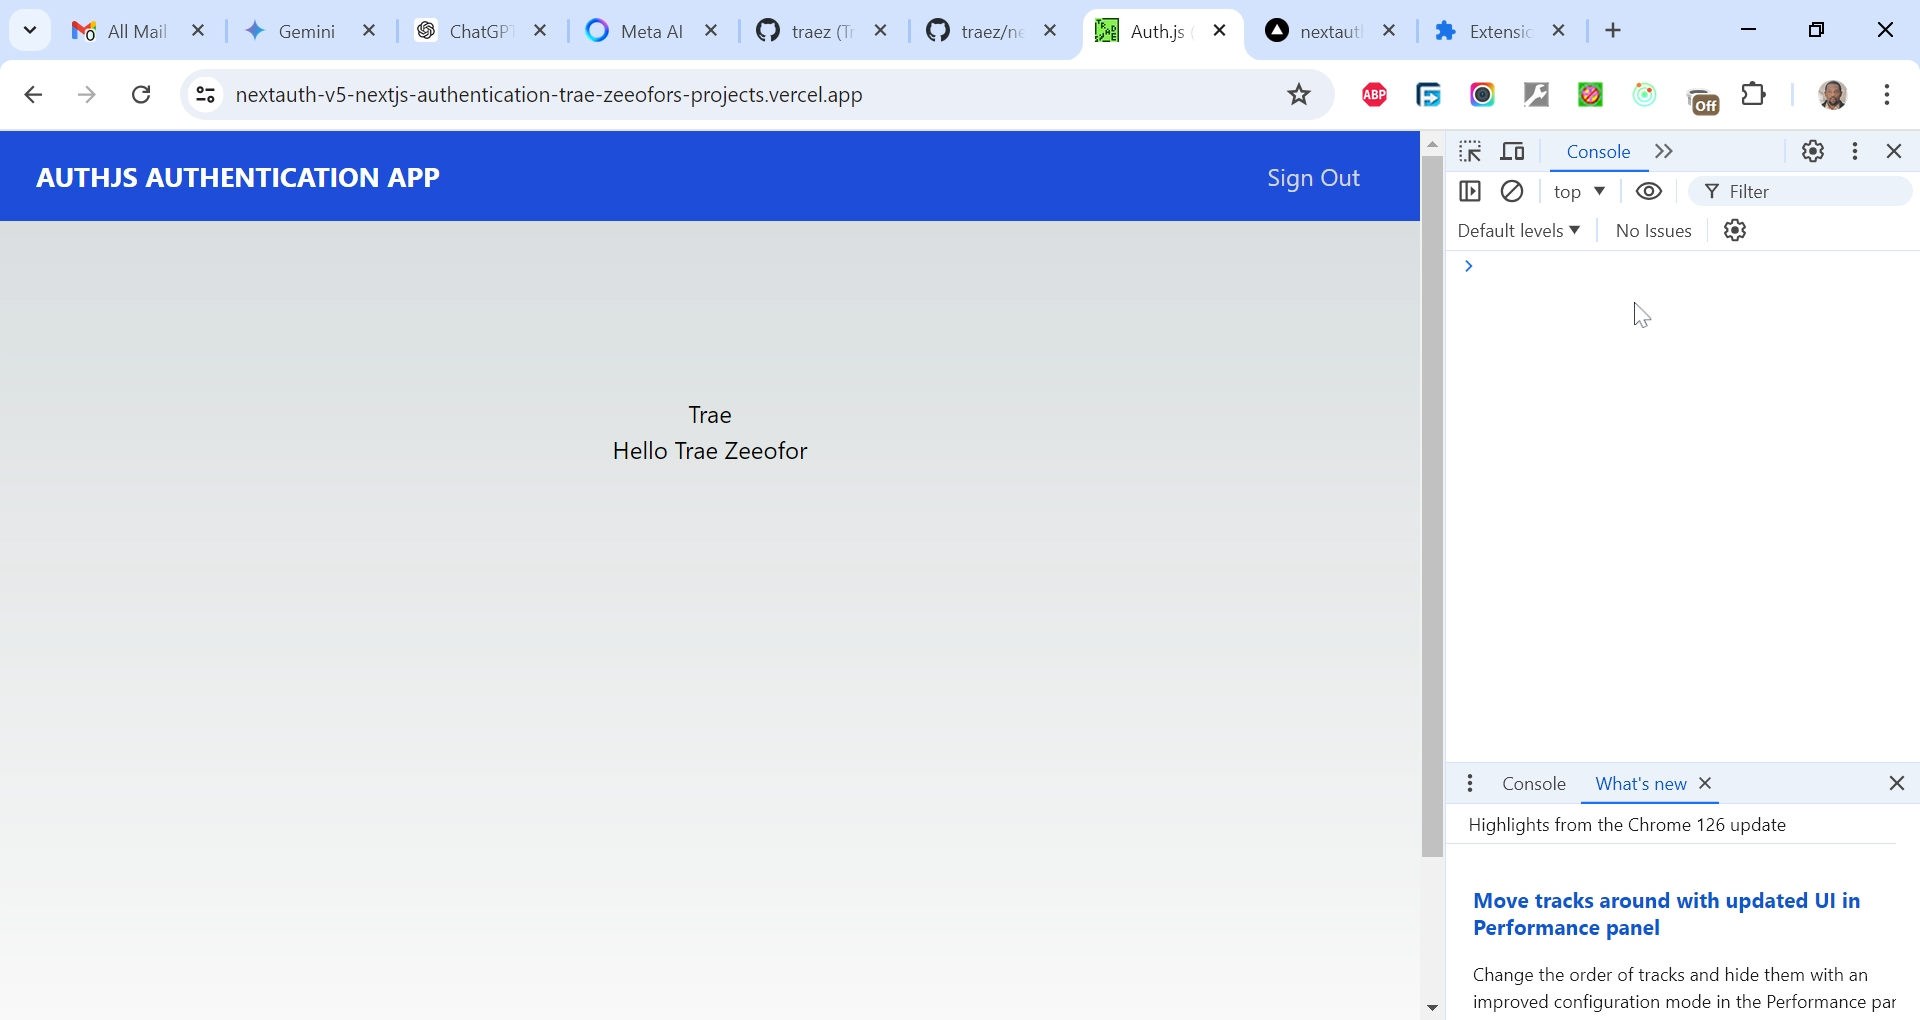
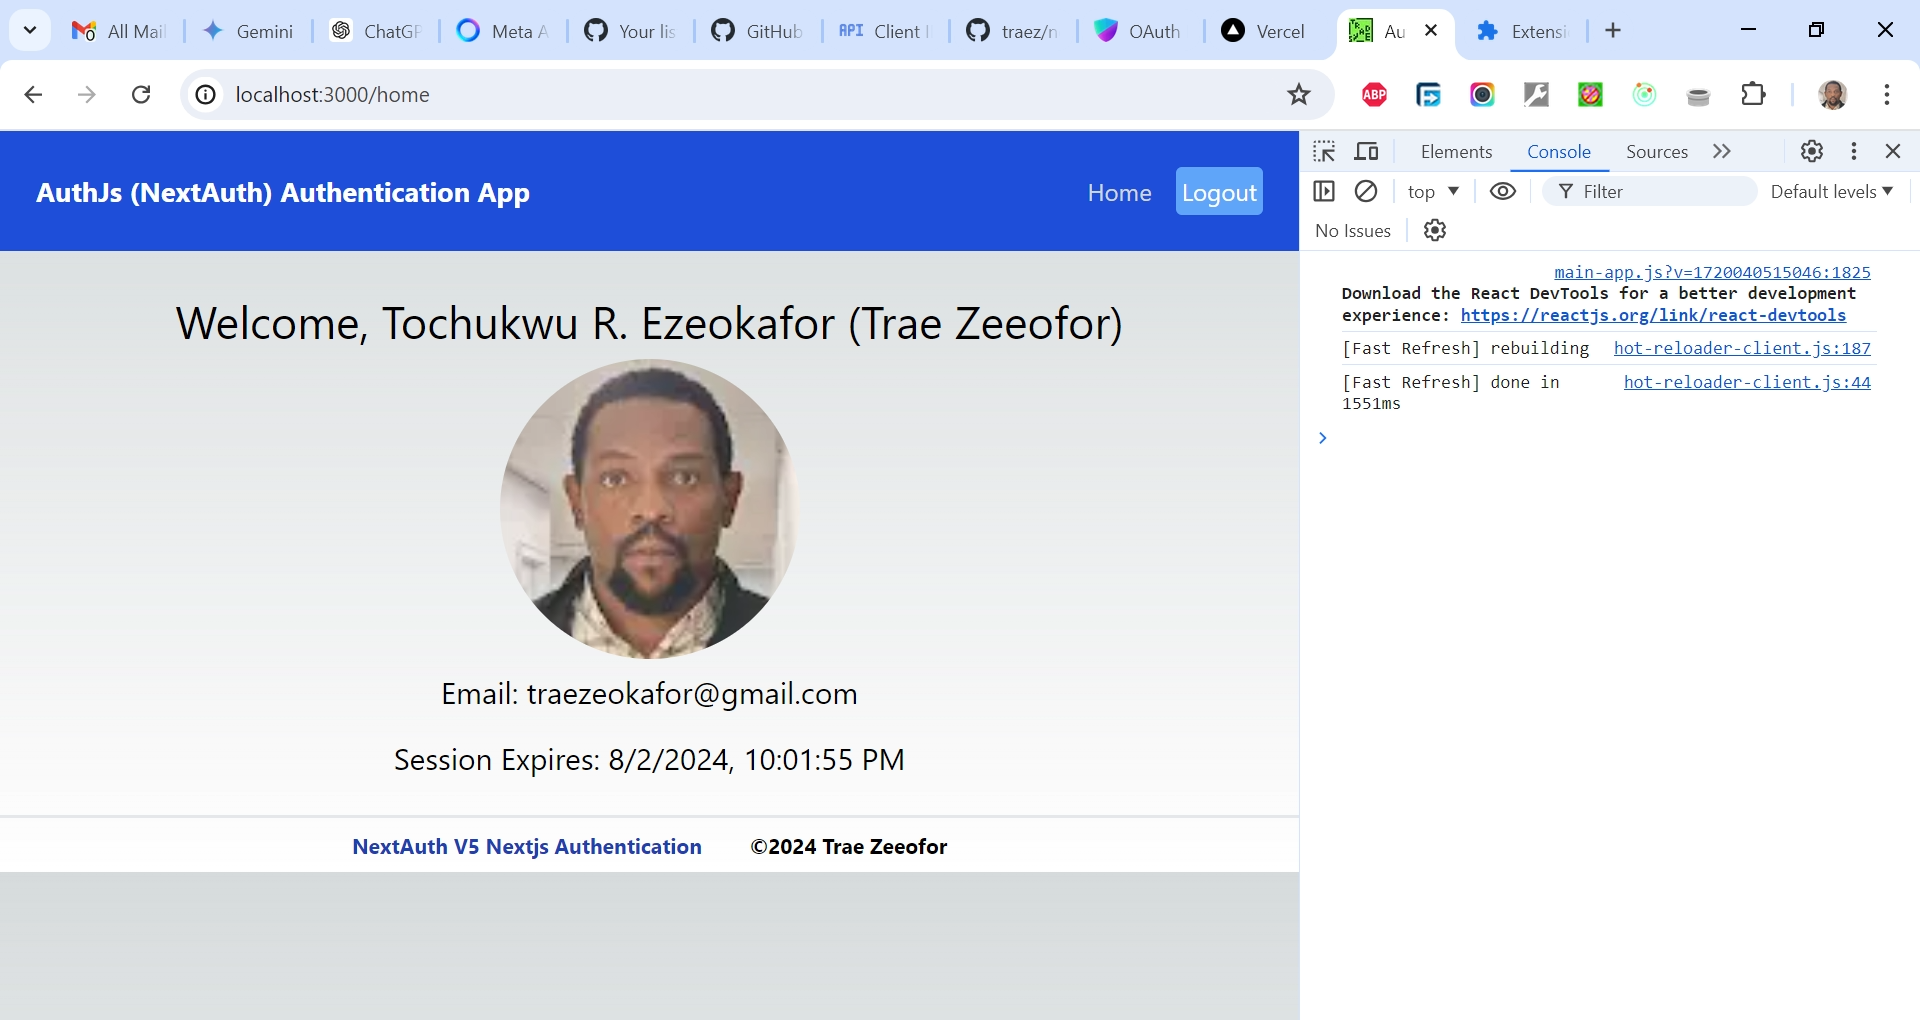
optimized the whole application to remove all bugs

diff --git a/src/components/Header.jsx b/src/components/Header.jsx
@@ -1,33 +1,32 @@
 import Link from "next/link";
 import { auth } from "@/auth";
+import LoginForm from "@/components/LoginForm";
+import Logout from "@/components/Logout";
 
 export default async function Header() {
-  const session = await auth()
+  const session = await auth();
 
   return (
     <>
       <nav className="flex items-center justify-between px-6 py-4 mb-5 bg-blue-700 ">
         <div className="flex items-center">
           <Link href="/">
-            <div className="text-lg font-bold text-white uppercase">
-              AuthJs Authentication App
+            <div className="text-lg font-bold text-white capitalize hover:text-black">
+              AuthJs (NextAuth) Authentication App
             </div>
           </Link>
         </div>
         <div className="flex items-center text-white">
-        {session?.user?.name ? (
-          <Link href="sign-out" className="text-gray-300 hover:text-white mr-4">
-            Sign Out
+          <Link href="home" className="text-gray-300 hover:text-black mr-4">
+            Home
           </Link>
-        ) : (
-          <Link href="sign-in" className="text-gray-300 hover:text-white mr-4">
-            Sign In
-          </Link>
-        )}
+          {session?.user?.name ? <Logout /> : <LoginForm />}
         </div>
       </nav>
     </>
   );
-};
+}
 
-
+/*
+hate
+*/

diff --git a/src/app/page.js b/src/app/page.js
@@ -1,17 +1,24 @@
 import { auth } from "@/auth";
 
 export default async function Home() {
-  const session = await auth()
-  console.log({session})
+  const session = await auth();
 
   return (
-    <main className="flex min-h-screen flex-col items-center justify-items-center p-24">
-     <p>Trae</p>
-     {session?.user?.name ? (
-        <h2>Hello {session.user.name}</h2>
+    <main className="flex min-h-screen flex-col items-center justify-start p-6 bg-gray-100">
+    <div className="bg-white shadow-md rounded-lg p-8 max-w-lg text-center">
+      <p className="text-xl font-semibold text-gray-800 mb-4">
+        Welcome to my Auth.js (NextAuth) Testing App
+      </p>
+      {session?.user?.name ? (
+        <h2 className="text-2xl font-bold text-green-600">
+          Hello {session.user.name}
+        </h2>
       ) : (
-        <h2>Welcome, Guest</h2>
+        <h2 className="text-2xl font-bold text-red-600">
+          Welcome, Guest
+        </h2>
       )}
-    </main>
+    </div>
+  </main>
   );
 }

diff --git a/src/app/home/page.jsx b/src/app/home/page.jsx
@@ -1,0 +1,28 @@
+import Image from "next/image";
+import { auth } from "@/auth";
+import { redirect } from "next/navigation";
+
+const HomePage = async () => {
+  const session = await auth();
+  if (!session?.user) redirect("/");
+  //console.log(session);
+
+  return (
+    <div className="flex flex-col items-center m-4">
+      <h1 className="text-3xl my-2">Welcome, {session?.user?.name}</h1>
+      <Image
+        src={session?.user?.image}
+        alt={session?.user?.name}
+        width={200}
+        height={200}
+        className="rounded-full"
+      />
+       <p className="text-xl my-2">Email: {session?.user?.email}</p>
+      <p className="text-xl my-2">
+        Session Expires: {new Date(session.expires).toLocaleString()}
+      </p>
+    </div>
+  );
+};
+
+export default HomePage;

diff --git a/src/components/LoginForm.jsx b/src/components/LoginForm.jsx
@@ -1,0 +1,17 @@
+import { doSocialLogin } from "@/utils/actions";
+
+const LoginForm = () => {
+    return (
+        <form action={doSocialLogin}>
+            <button className="bg-pink-400 text-white p-1 rounded-md m-1 text-lg hover:text-black" type="submit" name="action" value="google">
+                Sign In With Google
+            </button>
+
+            <button className="bg-black text-white p-1 rounded-md m-1 text-lg hover:text-pink-400" type="submit" name="action" value="github">
+                Sign In With GitHub
+            </button>
+        </form>
+    );
+};
+
+export default LoginForm;

diff --git a/src/auth.js b/src/auth.js
@@ -1,6 +1,7 @@
-import NextAuth from "next-auth"
-import GitHub from "next-auth/providers/github"
- 
+import NextAuth from "next-auth";
+import GitHub from "next-auth/providers/github";
+import Google from "next-auth/providers/google";
+
 export const { handlers, signIn, signOut, auth } = NextAuth({
-  providers: [GitHub],
-})
+  providers: [Google, GitHub],
+});

diff --git a/src/utils/actions.js b/src/utils/actions.js
@@ -1,0 +1,12 @@
+'use server'
+
+import { signIn, signOut } from "@/auth";
+
+export async function doSocialLogin(formData) {
+    const action = formData.get('action');
+    await signIn(action, { redirectTo: "/home" });
+}
+
+export async function doLogout() {
+  await signOut({ redirectTo: "/" });
+}

diff --git a/src/components/Logout.jsx b/src/components/Logout.jsx
@@ -1,0 +1,11 @@
+import { doLogout } from "@/utils/actions";
+
+const Logout = () => {
+  return (
+    <form action={doLogout}>
+        <button className="bg-blue-400 my-2 text-white p-1 rounded hover:text-black" type="submit">Logout</button>
+    </form>
+  )
+}
+
+export default Logout

diff --git a/README.md b/README.md
@@ -61,8 +61,21 @@ This file configures the authentication mechanism, focusing on setting up and co
 This file sets up the API routes that handle authentication requests using the configured logic. It is responsible for exposing the authentication logic as API routes, using the handlers defined in auth.ts to create actual API endpoints that can be called from the client-side or other parts of the application. 
 - **middleware.ts:**  
 This file re-exports the auth middleware from auth.ts, enabling it to be used globally across the application to manage session lifetimes. It updates the session expiry time on every request to keep the user logged in for a longer duration. It wraps protected routes with authentication to ensure only authenticated users can access them.  
-- **Clerk vs. Auth.js Approach to Authentication:**  
-The Clerk approach to authentication simplifies the process by doing most of the heavy lifting, allowing you to easily integrate authentication ("plug and play"). On the other hand, the Auth.js approach requires more groundwork and configuration on your part. As you continue learning, you will explore all the available options to determine the best fit for your needs.  
+- **Google Cloud Console and Resource Management:**  
+Google Cloud Console is your web-based control panel for managing resources in Google Cloud Platform (GCP). It lets you:  
+1) Launch and manage cloud services like compute, storage, databases, and machine learning tools.  
+2) Monitor and optimize your cloud resources for performance and cost.  
+3) Secure your cloud environment with access controls and permissions management.  
+Think of it as the mission control for your projects running on Google's cloud infrastructure.  
+- **Google Cloud Configuration for Authentication:**    
+**The Google Cloud Console** configuration is needed for setting up the **Google Provider** in your application, similar to how Developer Settings are configured in GitHub for the **GitHub Provider**.  
+In the context of **The Clerk vs. Auth.js Approach to Authentication**:
+The Clerk approach simplifies the process by handling most of the heavy lifting, allowing you to easily integrate authentication ("plug and play").  
+The Auth.js approach requires more groundwork and configuration on your part. While Clerk is "drag and drop" (as Clerk server handles code for authentication), Auth.js (NextAuth) requires extra work and configuration in your Provider settings. This provides more control and potentially higher security.  
+For setting up the Google Provider, I defined the `Client ID` and `Client Secret` in the `.env` file.
+- **Configuring Next.js Image Component for Security and Optimization:**  
+The `next/image component` in Next.js requires explicit configuration for hostnames, such as `avatars.githubusercontent.com`, in your `next.config.js` file for security and optimization purposes.  
+For my GitHub project, I used the newer `remotePatterns` property and set the pathname to `'**'` (double asterisk), which matches any path within the trusted hostname. This configuration can also omit the port and pathname for simplicity and security.
 
 ### Continued development
 
